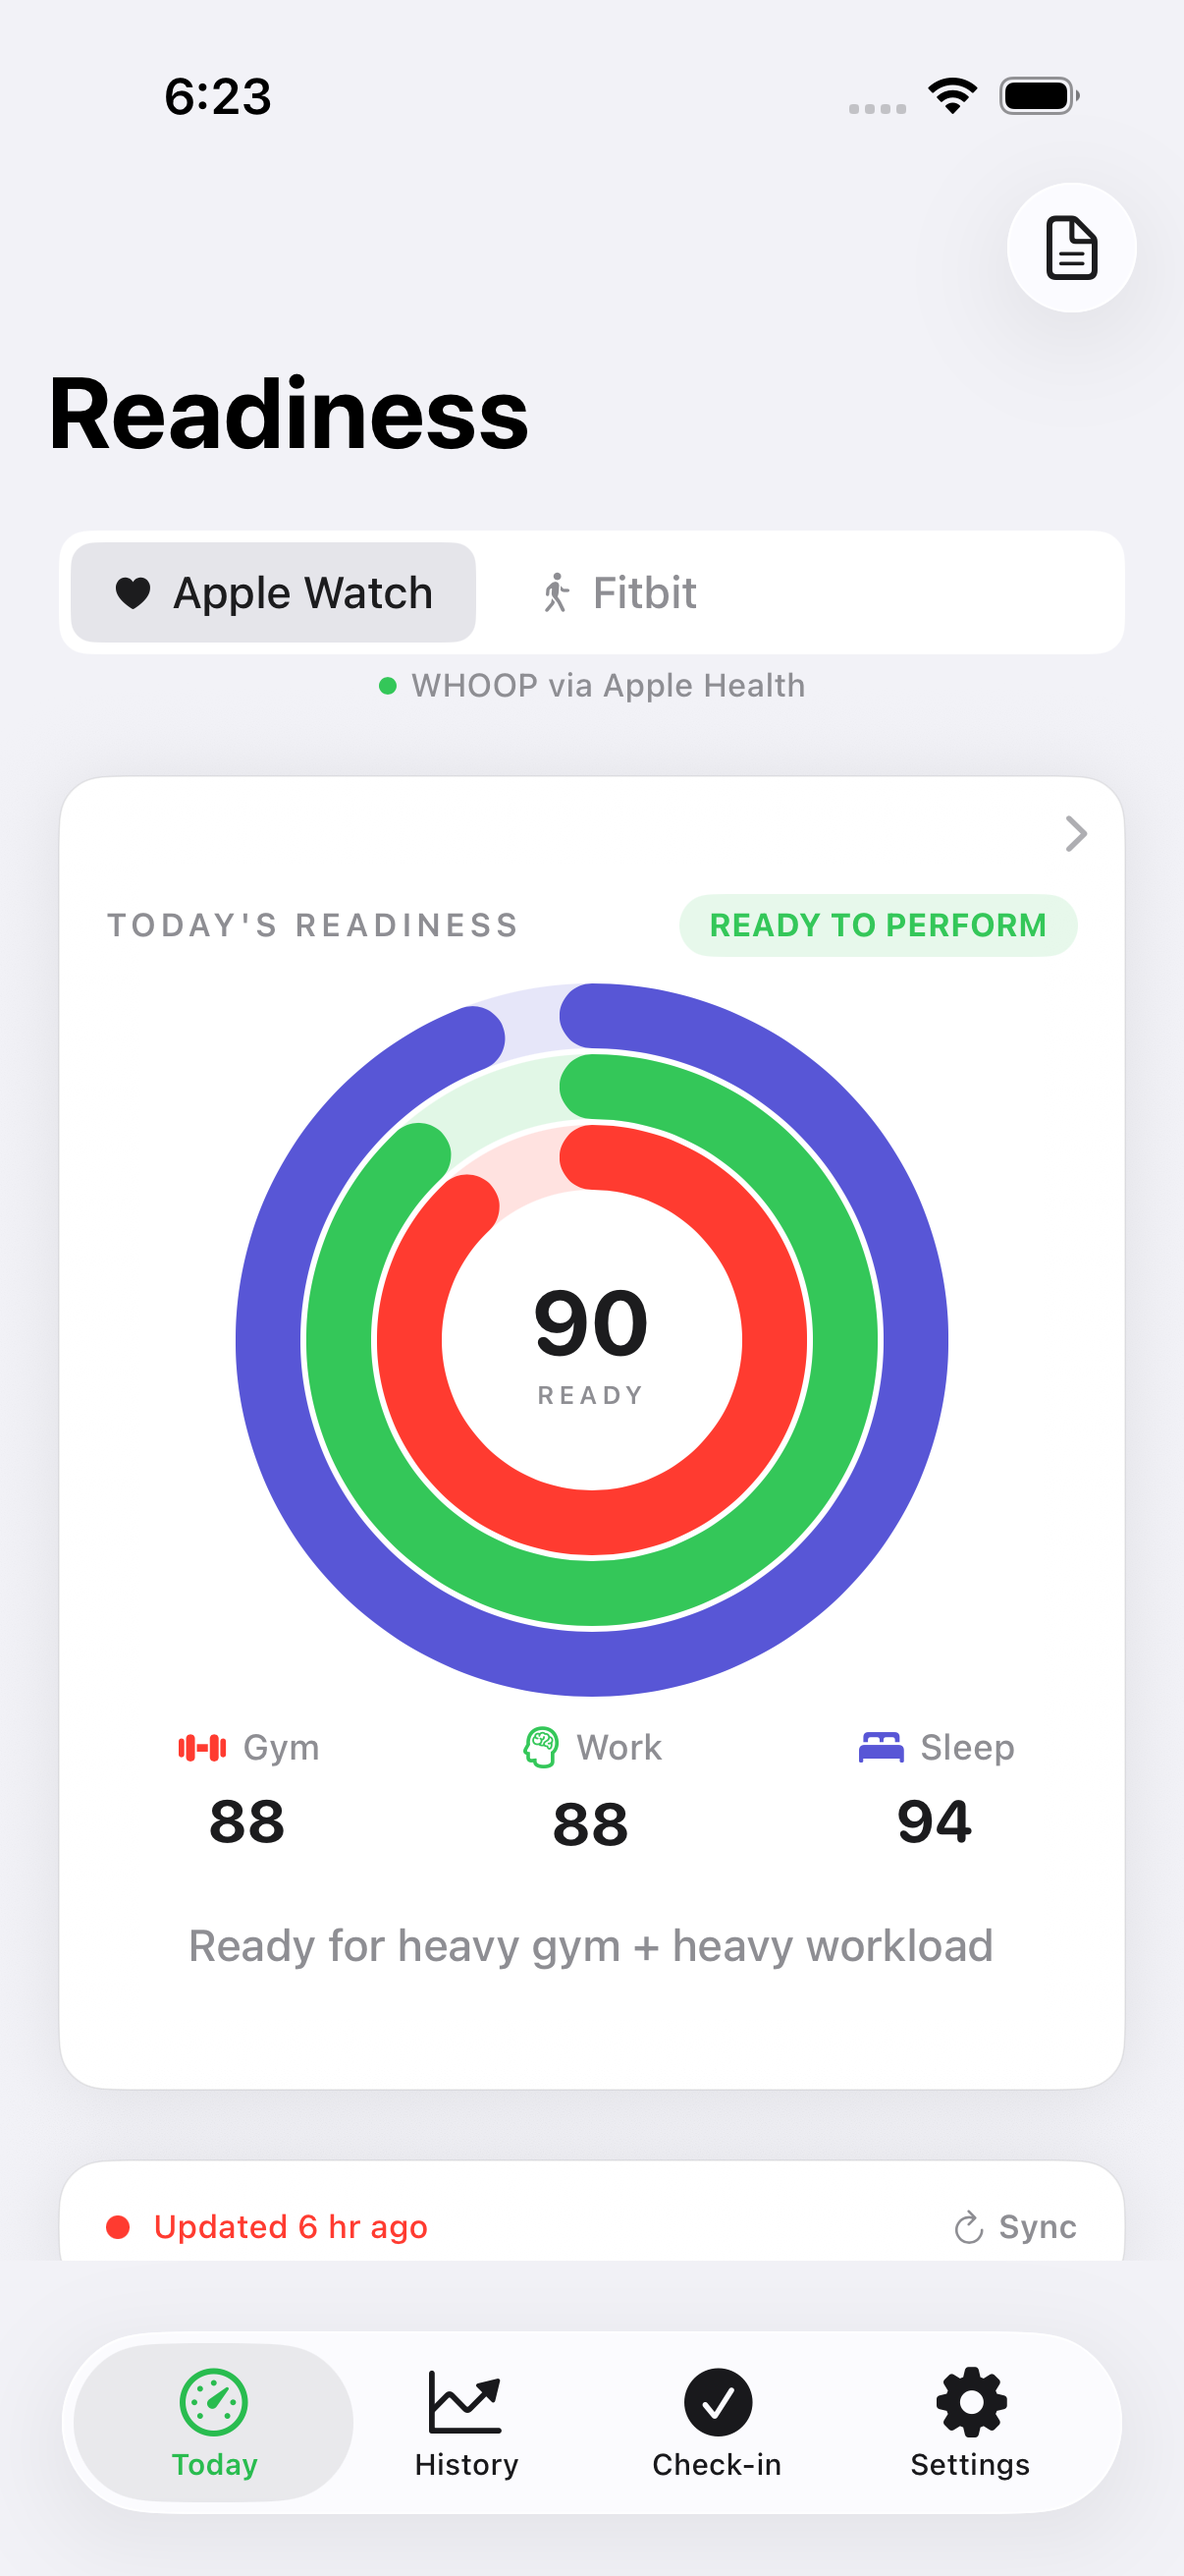
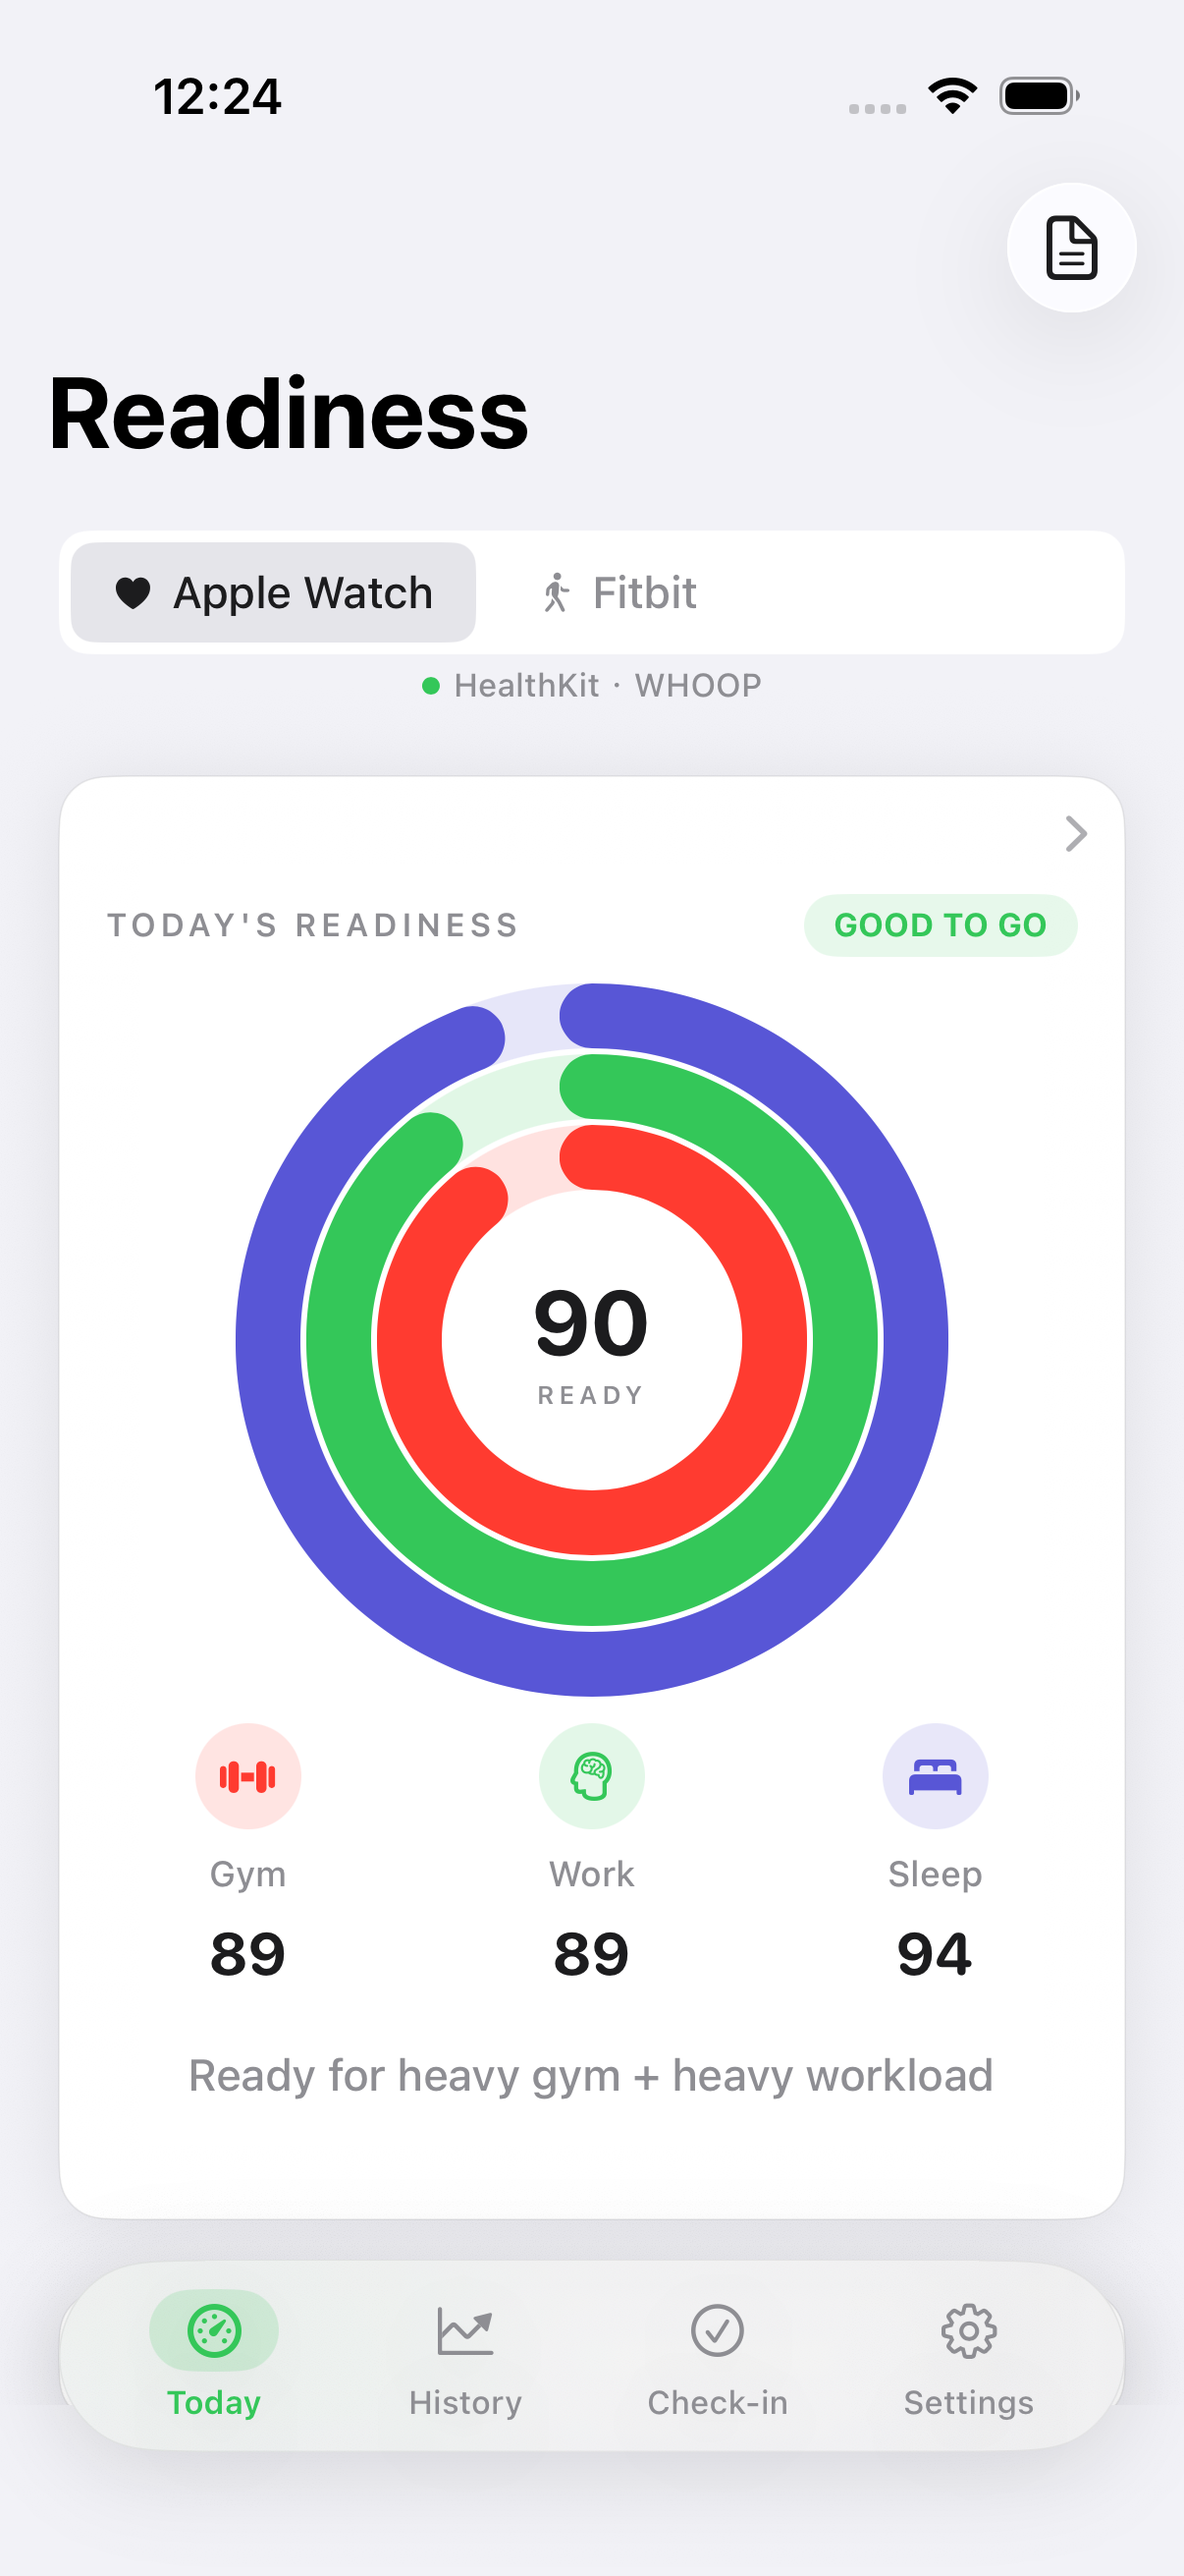
feat(today): Apple-style Today polish (Honest #54) (#72)
Short GOOD TO GO zone badge, tinted Gym/Work/Sleep legend wells,
compact HealthKit status, and floating frosted pill tab bar.
Local UITest proof: .audit/verify-dashboard.png.

diff --git a/ReadinessTracker/Design/FloatingPillTabBar.swift b/ReadinessTracker/Design/FloatingPillTabBar.swift
@@ -1,0 +1,63 @@
+import SwiftUI
+
+/// Apple Fitness–style floating frosted pill tab bar (Honest #54).
+struct FloatingPillTabBar: View {
+    @Binding var selection: Int
+
+    private struct Item: Identifiable {
+        let id: Int
+        let title: String
+        let systemImage: String
+    }
+
+    private let items: [Item] = [
+        .init(id: 0, title: "Today", systemImage: "gauge.with.dots.needle.67percent"),
+        .init(id: 1, title: "History", systemImage: "chart.line.uptrend.xyaxis"),
+        .init(id: 2, title: "Check-in", systemImage: "checkmark.circle"),
+        .init(id: 3, title: "Settings", systemImage: "gearshape")
+    ]
+
+    var body: some View {
+        HStack(spacing: 0) {
+            ForEach(items) { item in
+                Button {
+                    Haptic.selectionChanged()
+                    withAnimation(.spring(response: 0.32, dampingFraction: 0.82)) {
+                        selection = item.id
+                    }
+                } label: {
+                    VStack(spacing: 4) {
+                        Image(systemName: item.systemImage)
+                            .font(.system(size: 18, weight: selection == item.id ? .semibold : .regular))
+                            .symbolVariant(selection == item.id ? .fill : .none)
+                            .frame(width: 44, height: 28)
+                            .background(
+                                Capsule()
+                                    .fill(selection == item.id ? RTColor.optimal.opacity(0.16) : Color.clear)
+                            )
+                        Text(item.title)
+                            .font(.caption2.weight(selection == item.id ? .semibold : .medium))
+                    }
+                    .foregroundStyle(selection == item.id ? RTColor.optimal : RTColor.secondaryText)
+                    .frame(maxWidth: .infinity)
+                    .contentShape(Rectangle())
+                }
+                .buttonStyle(.plain)
+                .accessibilityLabel(item.title)
+                .accessibilityAddTraits(selection == item.id ? .isSelected : [])
+            }
+        }
+        .padding(.horizontal, 10)
+        .padding(.vertical, 10)
+        .background(.ultraThinMaterial, in: Capsule())
+        .overlay(
+            Capsule()
+                .strokeBorder(Color.primary.opacity(0.06), lineWidth: 0.5)
+        )
+        .shadow(color: .black.opacity(0.12), radius: 16, y: 6)
+        .padding(.horizontal, 20)
+        .padding(.bottom, 8)
+        .accessibilityElement(children: .contain)
+        .accessibilityLabel("Main tabs")
+    }
+}

diff --git a/ReadinessTracker/Views/ContentView.swift b/ReadinessTracker/Views/ContentView.swift
@@ -8,38 +8,26 @@ struct ContentView: View {
     @State private var checkInRouteID = UUID()
 
     var body: some View {
-        TabView(selection: $selectedTab) {
-            DashboardView()
-                .tabItem {
-                    Label("Today", systemImage: "gauge.with.dots.needle.67percent")
-                }
-                .tag(0)
-
-            HistoryView()
-                .tabItem {
-                    Label("History", systemImage: "chart.line.uptrend.xyaxis")
-                }
-                .tag(1)
-
-            CheckInView(initialTime: checkInPreferredTime)
-                .id(checkInRouteID)
-                .tabItem {
-                    Label("Check-in", systemImage: "checkmark.circle")
-                }
-                .environment(\.symbolVariants, selectedTab == 2 ? .fill : .none)
-                .tag(2)
-
-            SettingsView()
-                .tabItem {
-                    Label("Settings", systemImage: "gearshape")
-                }
-                .environment(\.symbolVariants, selectedTab == 3 ? .fill : .none)
-                .tag(3)
+        Group {
+            switch selectedTab {
+            case 0:
+                DashboardView()
+            case 1:
+                HistoryView()
+            case 2:
+                CheckInView(initialTime: checkInPreferredTime)
+                    .id(checkInRouteID)
+            default:
+                SettingsView()
+            }
         }
+        .frame(maxWidth: .infinity, maxHeight: .infinity)
+        .safeAreaInset(edge: .bottom, spacing: 0) {
+            FloatingPillTabBar(selection: $selectedTab)
+        }
+        .ignoresSafeArea(.keyboard)
         .tint(RTColor.optimal)
-        .toolbarBackground(RTColor.surface, for: .tabBar)
         .onAppear { UIFixture.installIfRequested() }
-        .onChange(of: selectedTab) { _ in Haptic.selectionChanged() }
         .onOpenURL { url in
             switch AppDeepLink.parse(url) {
             case .checkIn(let time):

diff --git a/ReadinessTracker/Design/TripleRingView.swift b/ReadinessTracker/Design/TripleRingView.swift
@@ -211,18 +211,19 @@ struct LegendItem: View {
     }
 
     private var legendContent: some View {
-        VStack(spacing: 6) {
-            HStack(spacing: 4) {
-                Image(systemName: kind.icon)
-                    .font(.caption.weight(.semibold))
-                    .foregroundColor(kind.color)
-                Text(kind.label)
-                    .font(.caption.weight(.medium))
-                    .foregroundColor(RTColor.secondaryText)
-            }
+        VStack(spacing: 8) {
+            Image(systemName: kind.icon)
+                .font(.system(size: 14, weight: .semibold))
+                .foregroundStyle(kind.color)
+                .frame(width: 36, height: 36)
+                .background(kind.color.opacity(0.14))
+                .clipShape(Circle())
+            Text(kind.label)
+                .font(.caption.weight(.medium))
+                .foregroundStyle(RTColor.secondaryText)
             Text("\(score)")
                 .font(.system(.title3, design: .rounded).weight(.bold))
-                .foregroundColor(RTColor.primaryText)
+                .foregroundStyle(RTColor.primaryText)
         }
         .frame(maxWidth: .infinity)
         .contentShape(Rectangle())

diff --git a/ReadinessTrackerUITests/SurfacesUITests.swift b/ReadinessTrackerUITests/SurfacesUITests.swift
@@ -12,7 +12,7 @@ final class SurfacesUITests: XCTestCase {
 
     func testTodayHeroBright() throws {
         XCTAssertTrue(app.staticTexts["Readiness"].waitForExistence(timeout: 8))
-        XCTAssertTrue(app.staticTexts["WHOOP via Apple Health"].exists)
+        XCTAssertTrue(app.staticTexts["HealthKit · WHOOP"].exists)
         saveShot("verify-dashboard.png")
     }
 
@@ -615,7 +615,7 @@ final class SurfacesUITests: XCTestCase {
     func testSettingsSourcesConnectRows() throws {
         app.tabBars.buttons["Settings"].tap()
         XCTAssertTrue(app.staticTexts["Apple Health"].waitForExistence(timeout: 8))
-        XCTAssertTrue(app.staticTexts["WHOOP via Apple Health"].exists)
+        XCTAssertTrue(app.staticTexts["HealthKit · WHOOP"].exists)
         let connect = app.descendants(matching: .any)["settings.healthkit.connect"].firstMatch
         let reconnect = app.buttons["Reconnect"]
         let connectTitle = app.buttons["Connect"]

diff --git a/ReadinessTracker/Views/DashboardView.swift b/ReadinessTracker/Views/DashboardView.swift
@@ -1040,7 +1040,11 @@ struct DashboardView: View {
     }
 
     static func healthKitSourceLabel(_ raw: String) -> String {
-        raw.localizedCaseInsensitiveContains("whoop") ? "WHOOP via Apple Health" : raw
+        let trimmed = raw.trimmingCharacters(in: .whitespacesAndNewlines)
+        if trimmed.isEmpty { return "HealthKit" }
+        if trimmed.localizedCaseInsensitiveContains("whoop") { return "HealthKit · WHOOP" }
+        if trimmed.localizedCaseInsensitiveContains("apple") { return "HealthKit" }
+        return "HealthKit · \(trimmed)"
     }
 
     private func trendFor(_ value: Double, baseline: Double, higherIsBetter: Bool) -> TrendDirection {

diff --git a/ReadinessTracker/Design/Theme.swift b/ReadinessTracker/Design/Theme.swift
@@ -175,7 +175,7 @@ enum ScoreZone {
     
     var label: String {
         switch self {
-        case .optimal: return "Ready to perform"
+        case .optimal: return "Good to go"
         case .good: return "Good to go"
         case .caution: return "Take it easy"
         case .warning: return "Rest needed"
